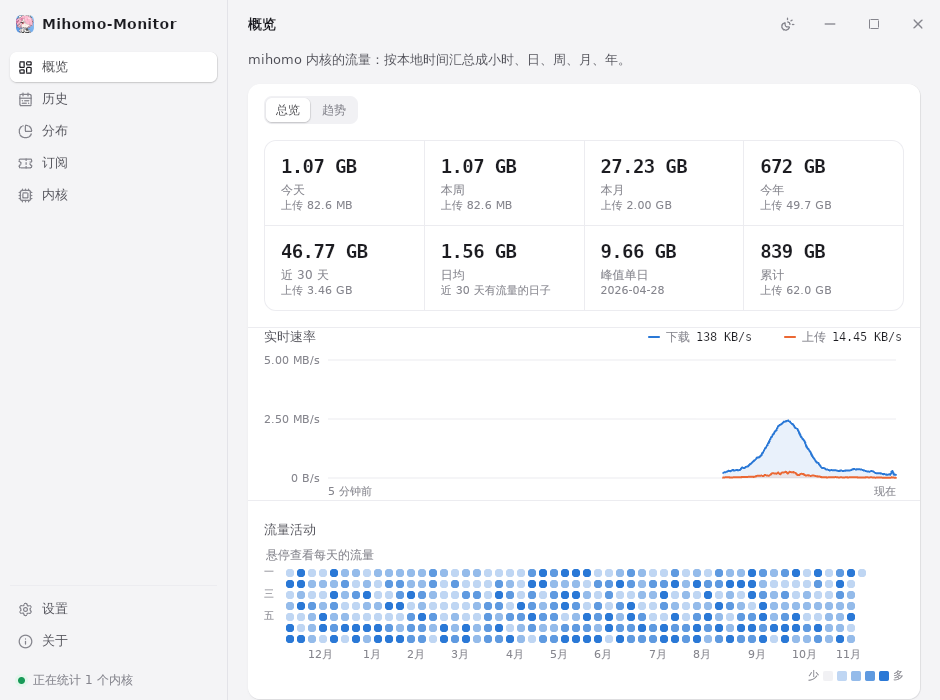
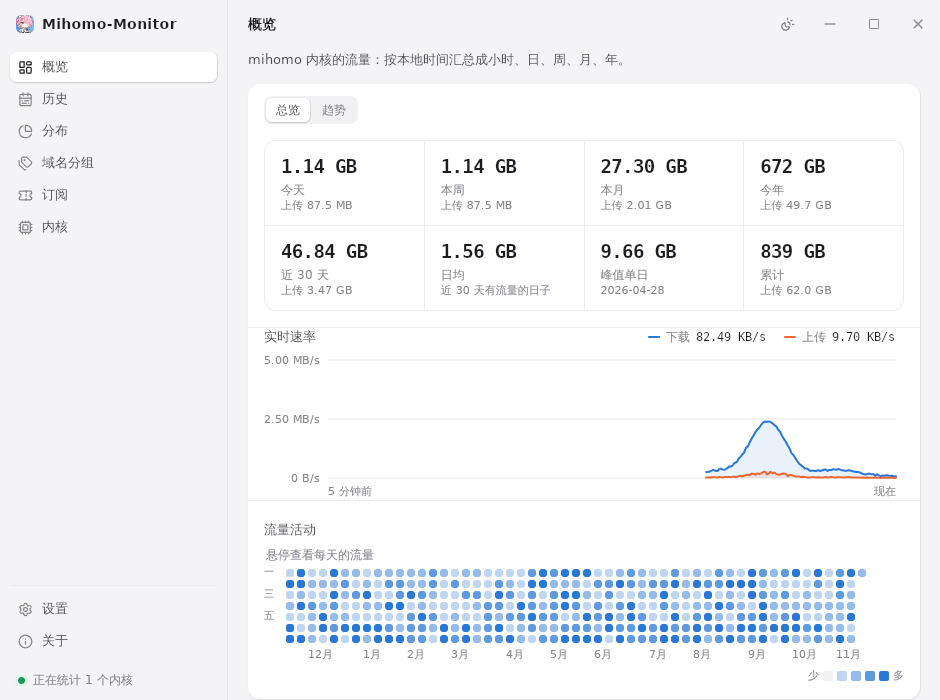
README 与设计文档补充域名分组，截图流程加入域名分组页，更新截图

diff --git a/app/scripts/demo-data.py b/app/scripts/demo-data.py
@@ -110,6 +110,18 @@ def main():
         "INSERT OR REPLACE INTO cycles (subscription, anchor, quota_bytes, count_mode, alerts) VALUES (?, ?, ?, 'both', '[80,100]')",
         ("白月光", json.dumps({"kind": "monthly", "day": reset_day, "hour": 0, "minute": 0}), 200 * 1024**3),
     )
+    # A few host groups; Apple, Steam and the rest stay ungrouped.
+    groups = {
+        "YouTube": [("suffix", "youtube.com"), ("suffix", "googlevideo.com"), ("suffix", "ytimg.com")],
+        "Google": [("suffix", "google.com")],
+        "Telegram": [("suffix", "telesco.pe"), ("cidr", "149.154.160.0/20")],
+        "Spotify": [("suffix", "spotify.com"), ("domain", "audio-ak-spotify-com.akamaized.net")],
+        "开发": [("suffix", "github.com"), ("suffix", "githubusercontent.com"), ("suffix", "visualstudio.com")],
+    }
+    for name, rules in groups.items():
+        db.execute("INSERT OR IGNORE INTO host_groups (name, note, created_at) VALUES (?, '', ?)", (name, now))
+        gid = db.execute("SELECT id FROM host_groups WHERE name = ?", (name,)).fetchone()[0]
+        db.executemany("INSERT OR IGNORE INTO host_rules (group_id, kind, value) VALUES (?, ?, ?)", [(gid, k, v) for k, v in rules])
     db.commit()
     print(f"added {len(rows)} traffic rows and {len(host_rows)} host rows to source {source}")
 

diff --git a/README.md b/README.md
@@ -27,6 +27,7 @@
 - [内核发现](#内核发现)
 - [历史](#历史)
 - [分布](#分布)
+- [域名分组](#域名分组)
 - [订阅与计费周期](#订阅与计费周期)
 - [统计口径](#统计口径)
 - [后台常驻](#后台常驻)
@@ -46,6 +47,7 @@
 | 实时速率与热力图 | 最近 5 分钟的下载与上传速率曲线，一年每天流量的热力图 |
 | 历史 | 按小时、日、周、月、年翻看任意时段，用量最高的日子排行，自定义起止日期，导出 CSV（对应 vnstat 的 -h / -d / -w / -m / -y / -t） |
 | 分布 | 流量去了哪里：按实际出站节点、订阅、进程、入站和域名排行，展开进程可看它访问的域名 |
+| 域名分组 | 给域名与 IP 打组（例如 YouTube、公司内网），分布页按分组合并显示；支持粘贴文本、CSV、JSON、Clash / sing-box 规则集导入 |
 | 计费周期 | 每个订阅设置重置日与配额，显示本周期用量、预计周期末用量，用到 80% / 100% 时发系统通知，并与机场返回的已用量对照 |
 | 多个内核 | 本机与路由器（OpenClash 等）的内核可以同时统计，分别查看或合计 |
 | 常驻托盘 | 开机自启，托盘悬停显示今日用量；轻量模式下关闭窗口会连界面一起释放 |
@@ -112,7 +114,37 @@ unix socket 与 Windows 命名管道不需要 secret（mihomo 不在这两个通
 | 入站 | 流量从内核的哪个入口进来，例如混合端口、TUN，或给容器、局域网设备单独开的端口 |
 | 域名 | 连接的域名，没有域名时是 IP；可以按主域名合并（`a.cdn.example.co.uk` 计入 `example.co.uk`） |
 
-时间范围可选今天、昨天、本周、本月、近 30 天、今年。
+时间范围可选今天、昨天、本周、本月、近 30 天、今年。域名可以按分组（见下一节）、按主域名或原样显示；展开分组可看其中的域名，域名行末的按钮可以直接把它加入分组。
+
+## 域名分组
+
+<div align="center">
+<img src="docs/images/groups.png" alt="域名分组页" width="720">
+</div>
+
+一堆 IP 和陌生域名很难看出属于哪个服务。**域名分组** 页可以把它们归到一个名字下，分布页按分组显示时，同一分组的流量合并成一行。
+
+条目的写法与 Clash 规则相同：
+
+| 匹配方式 | 写法 | 匹配 |
+| --- | --- | --- |
+| 域名及子域名 | `youtube.com`、`+.youtube.com`、`DOMAIN-SUFFIX,youtube.com` | 这个域名和它的所有子域名 |
+| 仅此域名 | `DOMAIN,www.google.com` | 只有这个域名 |
+| 包含关键字 | `DOMAIN-KEYWORD,youtube` | 域名中含有这段文字 |
+| IP / 网段 | `149.154.167.51`、`91.108.4.0/22`、`IP-CIDR,…` | 地址落在这段范围内 |
+
+一个域名同时符合多条时，依次按仅此域名、最长的子域名规则、关键字判断；地址按最长的网段判断；同一条目出现在多个分组时，先建的分组优先。
+
+**导入**：可以粘贴文本或选择文件，导入前会预览识别结果，并列出无法识别的行和原因：
+
+| 格式 | 说明 |
+| --- | --- |
+| 文本 | 每行一条：域名、IP、网段、网址（取其中的域名）、Clash 规则行、`+.example.com`；`#` 开头的是注释 |
+| CSV / TSV | 分组、条目、类型三列，有无表头均可（表头可用 group / 分组、domain / 域名、type / 类型 等） |
+| JSON | 字符串数组、`{"分组": ["条目", …]}`、对象数组、sing-box rule-set，以及本应用导出的格式 |
+| YAML | Clash rule-provider（`payload:`，domain、ipcidr、classical 三种都可以） |
+
+没写分组的条目加入导入时选择的分组；写了分组的按名字归入，不存在的分组自动新建。导入后每一条都可以单独修改匹配方式和内容、删除，也可以继续追加。**导出** 会把全部分组保存为 JSON，再导入即可还原。
 
 ## 订阅与计费周期
 
@@ -204,6 +236,7 @@ app/scripts/readme-screenshots.sh
 - [x] 历史浏览：小时 / 日 / 周 / 月 / 年、排行、自定义时段、导出 CSV
 - [x] 按节点、订阅、DIRECT、进程、入站、域名拆分
 - [x] 按订阅设置计费周期与配额，提醒，对照机场返回的已用量
+- [x] 域名分组：多种格式导入、逐条编辑、导出，分布页按分组显示
 - [ ] 订阅改名后合并旧名称的历史
 - [ ] 更多客户端的实测与适配
 

diff --git a/docs/design.md b/docs/design.md
@@ -170,6 +170,16 @@ cycles      (id, subscription, anchor, quota_bytes, count_mode, alerts)
 - 提醒：每分钟写盘后检查一次；每个周期每个阈值只通知一次，记录在 `meta` 表（`alerted:<周期 id>:<周期开始>`）。通知用 `tauri-plugin-notification`。
 - 展示：「订阅」页（周期进度、预计周期末用量、日均、机场数据对照、设置对话框），概览页的「计费周期」进度条，托盘悬停文字。
 
+## 7.1 域名分组（新增需求）
+
+用户给域名与 IP 打组，分布页的域名可按分组合并显示。
+
+- 条目沿用 Clash 的四种匹配：`DOMAIN`、`DOMAIN-SUFFIX`、`DOMAIN-KEYWORD`、`IP-CIDR`；优先级同 Clash（精确 > 最长后缀 > 关键字；地址按最长前缀）；同一条目在多个分组时先建的分组优先。纯逻辑在 `domain/hostgroup.rs`。
+- 文本里不带前缀的域名按“域名及子域名”读，更贴近“把这个服务归一组”的用意；Clash rule-provider 与 sing-box 里则按各自的原意（裸域名为精确匹配）。
+- 导入解析在 `infra/import.rs`：文本、CSV / TSV（`csv` crate）、JSON（含 sing-box rule-set 与本应用导出格式）、YAML（Clash rule-provider）；自动识别格式；逐行报告无法识别的原因，不让整个导入失败。导入先预览、确认后在一个事务里写入。
+- 存储：v4 迁移新增 `host_groups`、`host_rules`（同一分组内条目唯一）。分组变化后，内存里编译好的匹配器失效重建。
+- 分布页“按分组”时，未命中任何分组的域名按主域名显示。
+
 ## 8. 代码结构
 
 沿用 Hydra 的工程骨架（pnpm + Vite + React + Tailwind + lucide，GitHub Actions 发布与 updater），Rust 侧按层分目录：
